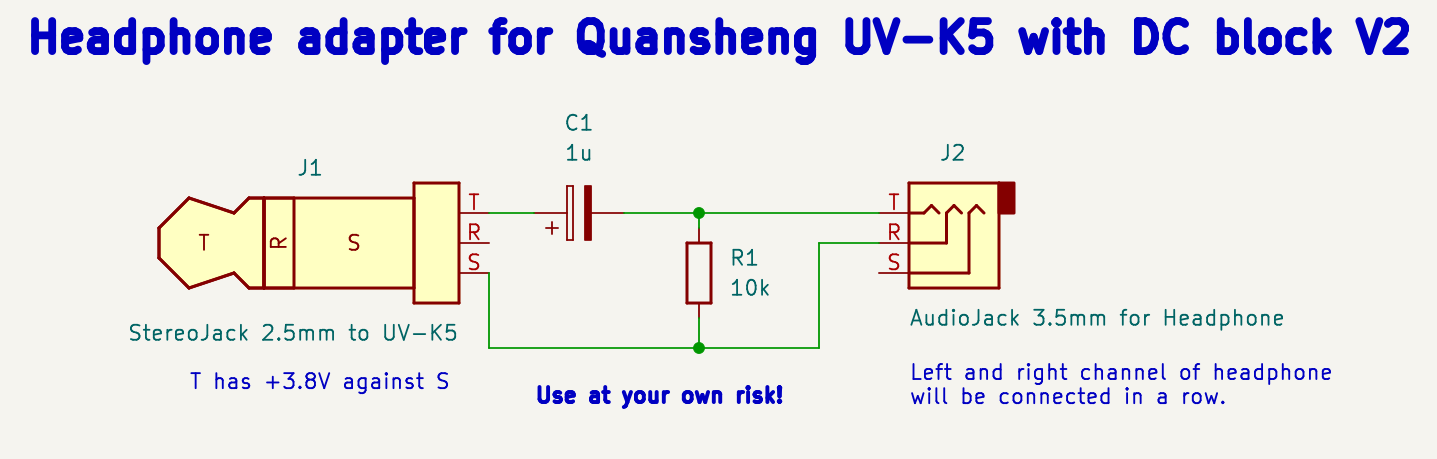
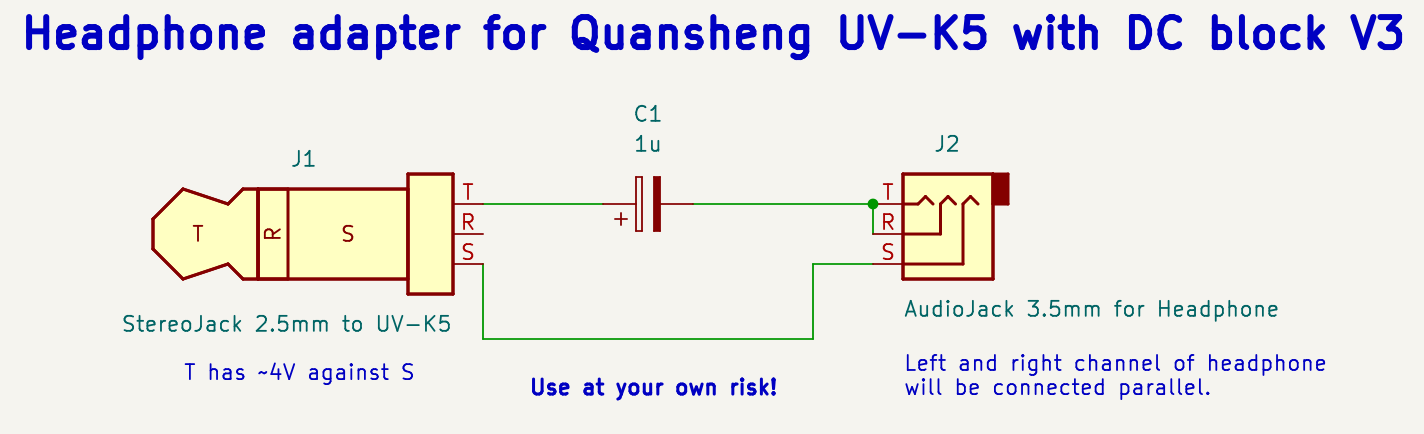
Update HW DC blocker

diff --git a/driver/bk4819.h b/driver/bk4819.h
@@ -20,7 +20,7 @@
 #include <stdbool.h>
 #include <stdint.h>
 
-#include "driver/bk4819-regs.h"
+#include "bk4819-regs.h"
 
 enum BK4819_AF_Type_t
 {

diff --git a/README.md b/README.md
@@ -225,7 +225,7 @@ Headphones can be connected to the 2.5mm jack. The audio signal is between the t
 there are some limitations:
 
 > [!WARNING]
-> **There is a DC voltage of around 4V between tip and sleeve**. Use a DC blocker before connecting your headphones to the device!
+> **There is a DC voltage of around 4V (half battery voltage) between tip and sleeve**. Use a DC blocker before connecting your headphones to the device!
 > Your **headphones might be destroyed** otherwise!
 
 To make it even worse the DC voltage is switched off and on when playing signal tones (fox cycle end warning beep). This leads to
@@ -234,12 +234,8 @@ voltage peaks and crackling noises in your headphones.
 I use this circuit for removing the DC voltage from the audio signal:
 <img src="/images/headphone_adapter.png" width=800 />
 
-The idea is to use a high pass to get rid of the DC voltage. The 10k resistor is for capacitor charging if no headphone is connected and can be left out.
-
-My headphone channels are connected in a row, this leads to a resistance of around 32 ohm. By experiment capacitor values of around 1uF fit for this
-configuration. The edge frequency for a 1uF capacitor is 
-
-$$ f_{cut} = \frac {1} {2 \cdot \pi \cdot R \cdot C} = \frac {1} {2 \cdot \pi \cdot 32 \cdot 1\mu } = 4.97 ~kHz. $$
+My headphone channels are connected in parallel, this leads to a resistance of around 8 ohms. By experiment capacitor values of around 1uF fit for this
+configuration.
 
 The output amplifier of the radio is very powerful. If some more attenuation is desired try 10uF or more.
 This all depends on your headphones. Try inline capacitor values of 0.1uF .. 10uF as a start.
@@ -248,6 +244,12 @@ This might not be the best solution so don´t blame me for any damages. Better s
 
 > [!Warning]
 > Use cheap headphones or some you can go without only!!!
+
+> [!TIP]
+> A kenwood connector with a combined 2.5 and 3.5mm plug is mechanically more stable than a single 2.5mm stereo plug.
+
+> [!TIP]
+> Kenwood connectors with spiral cable can be taken from cheap external baofeng microphones.
 
 
 ## Radio performance
